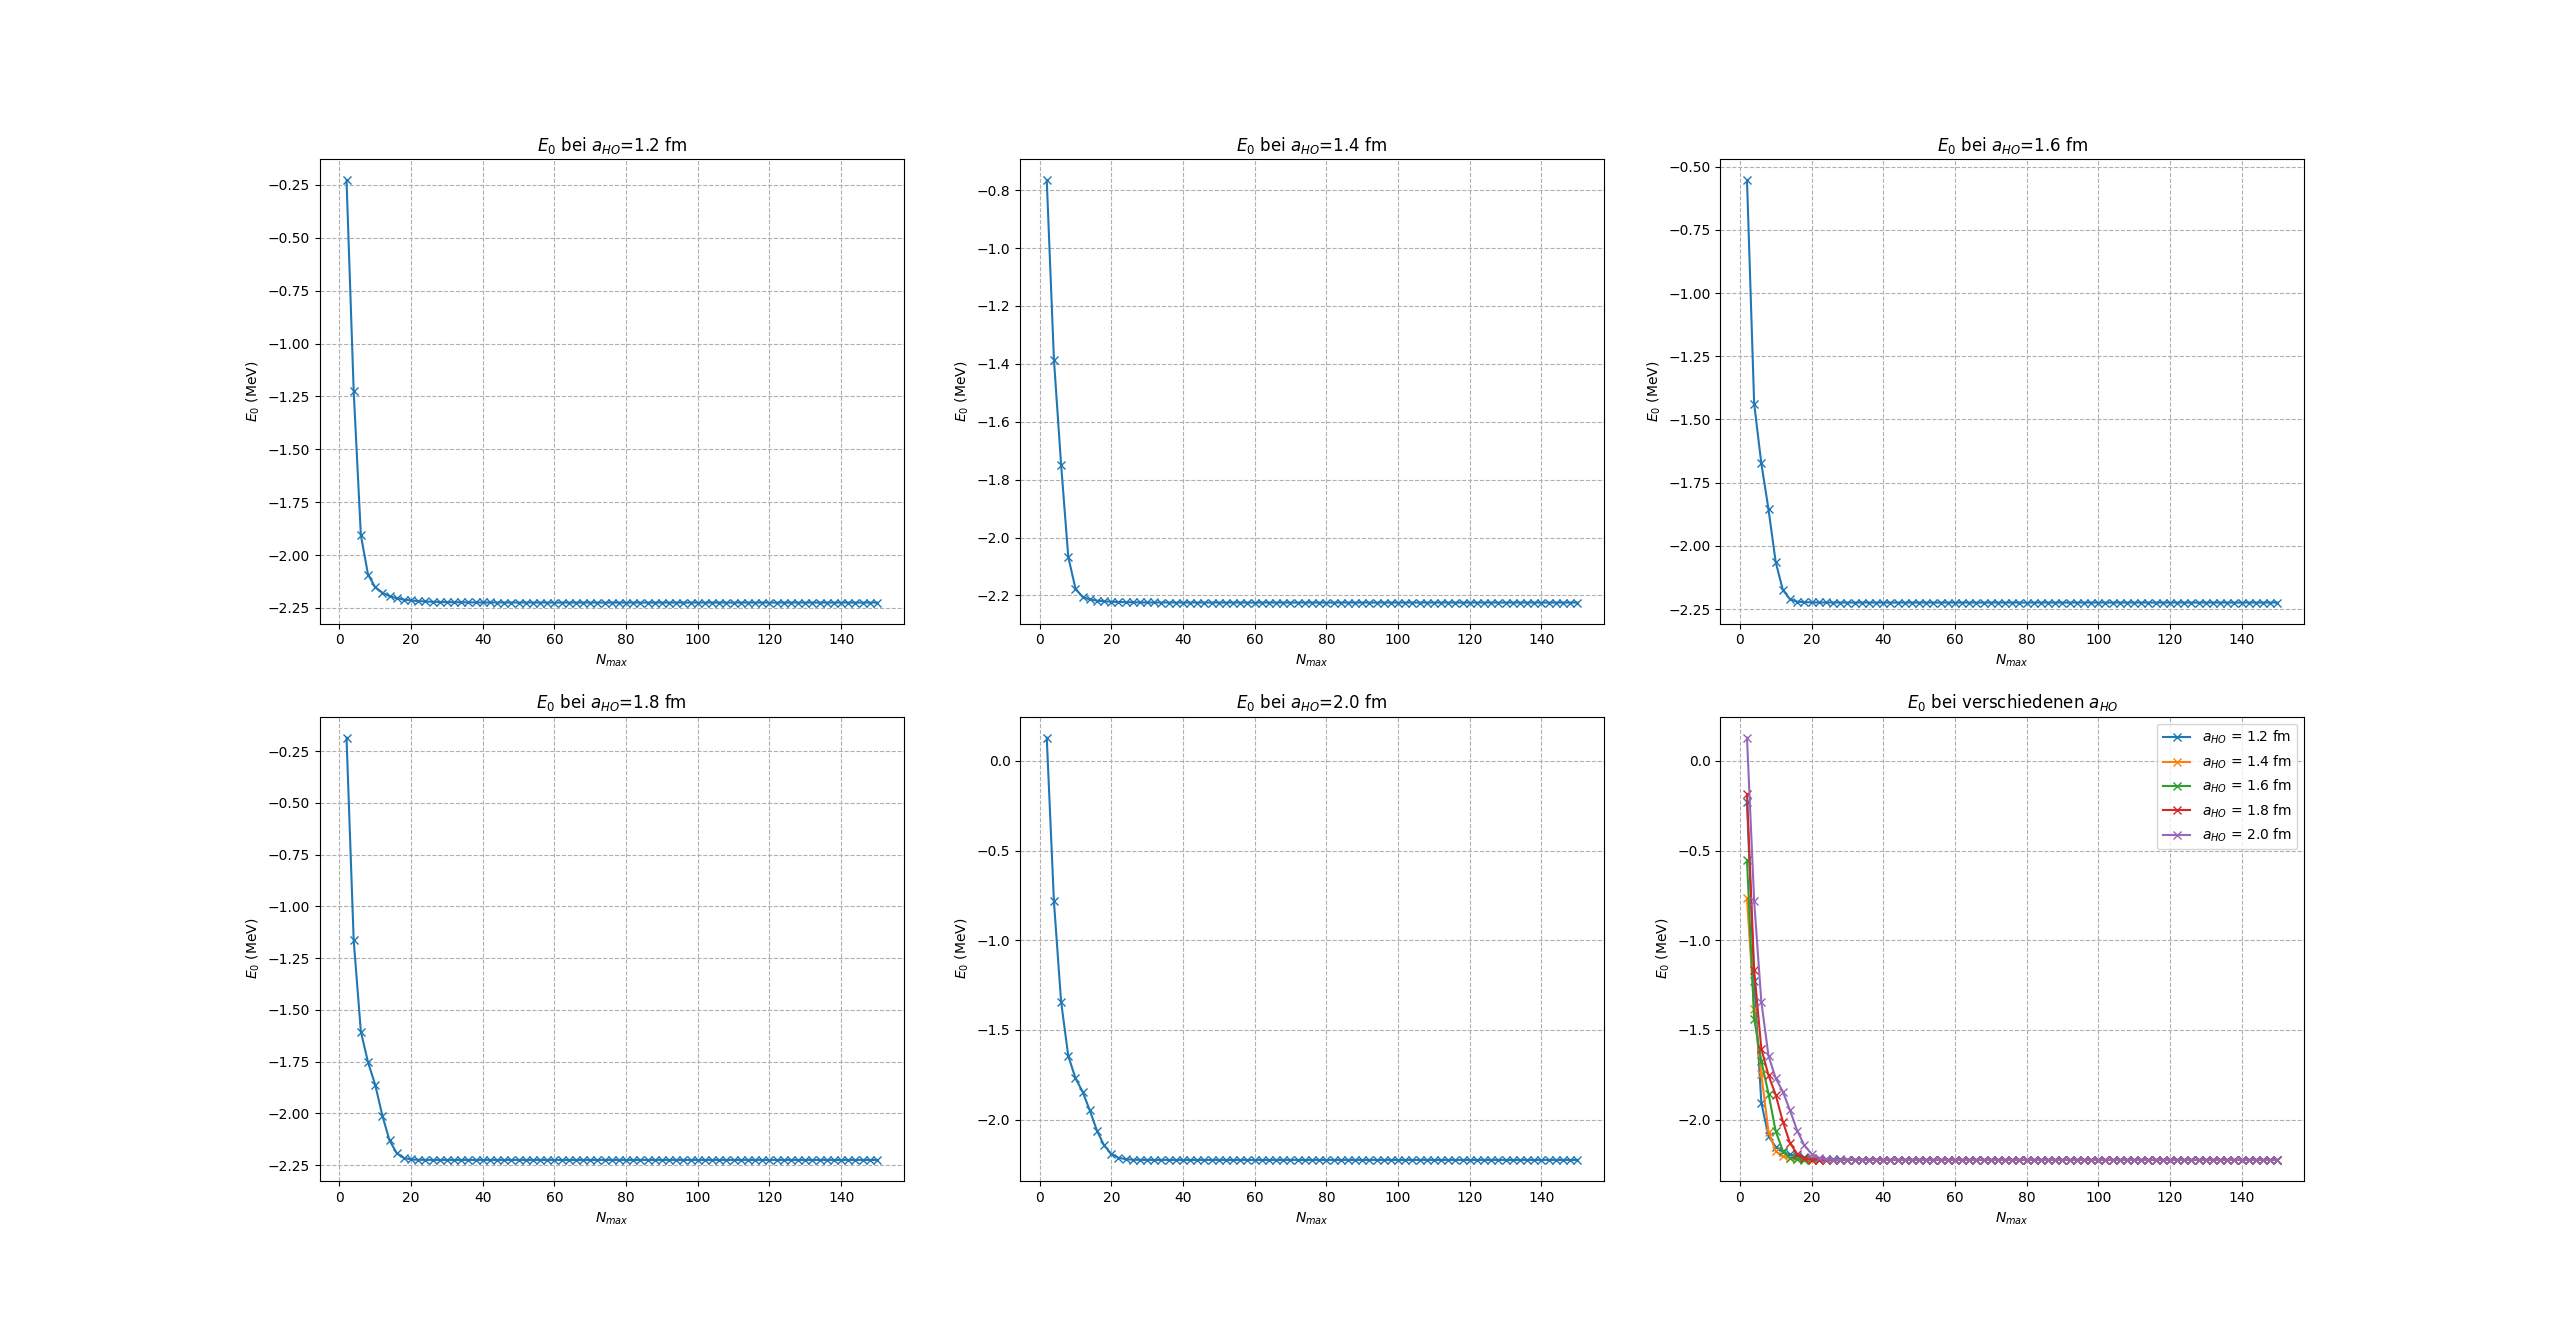
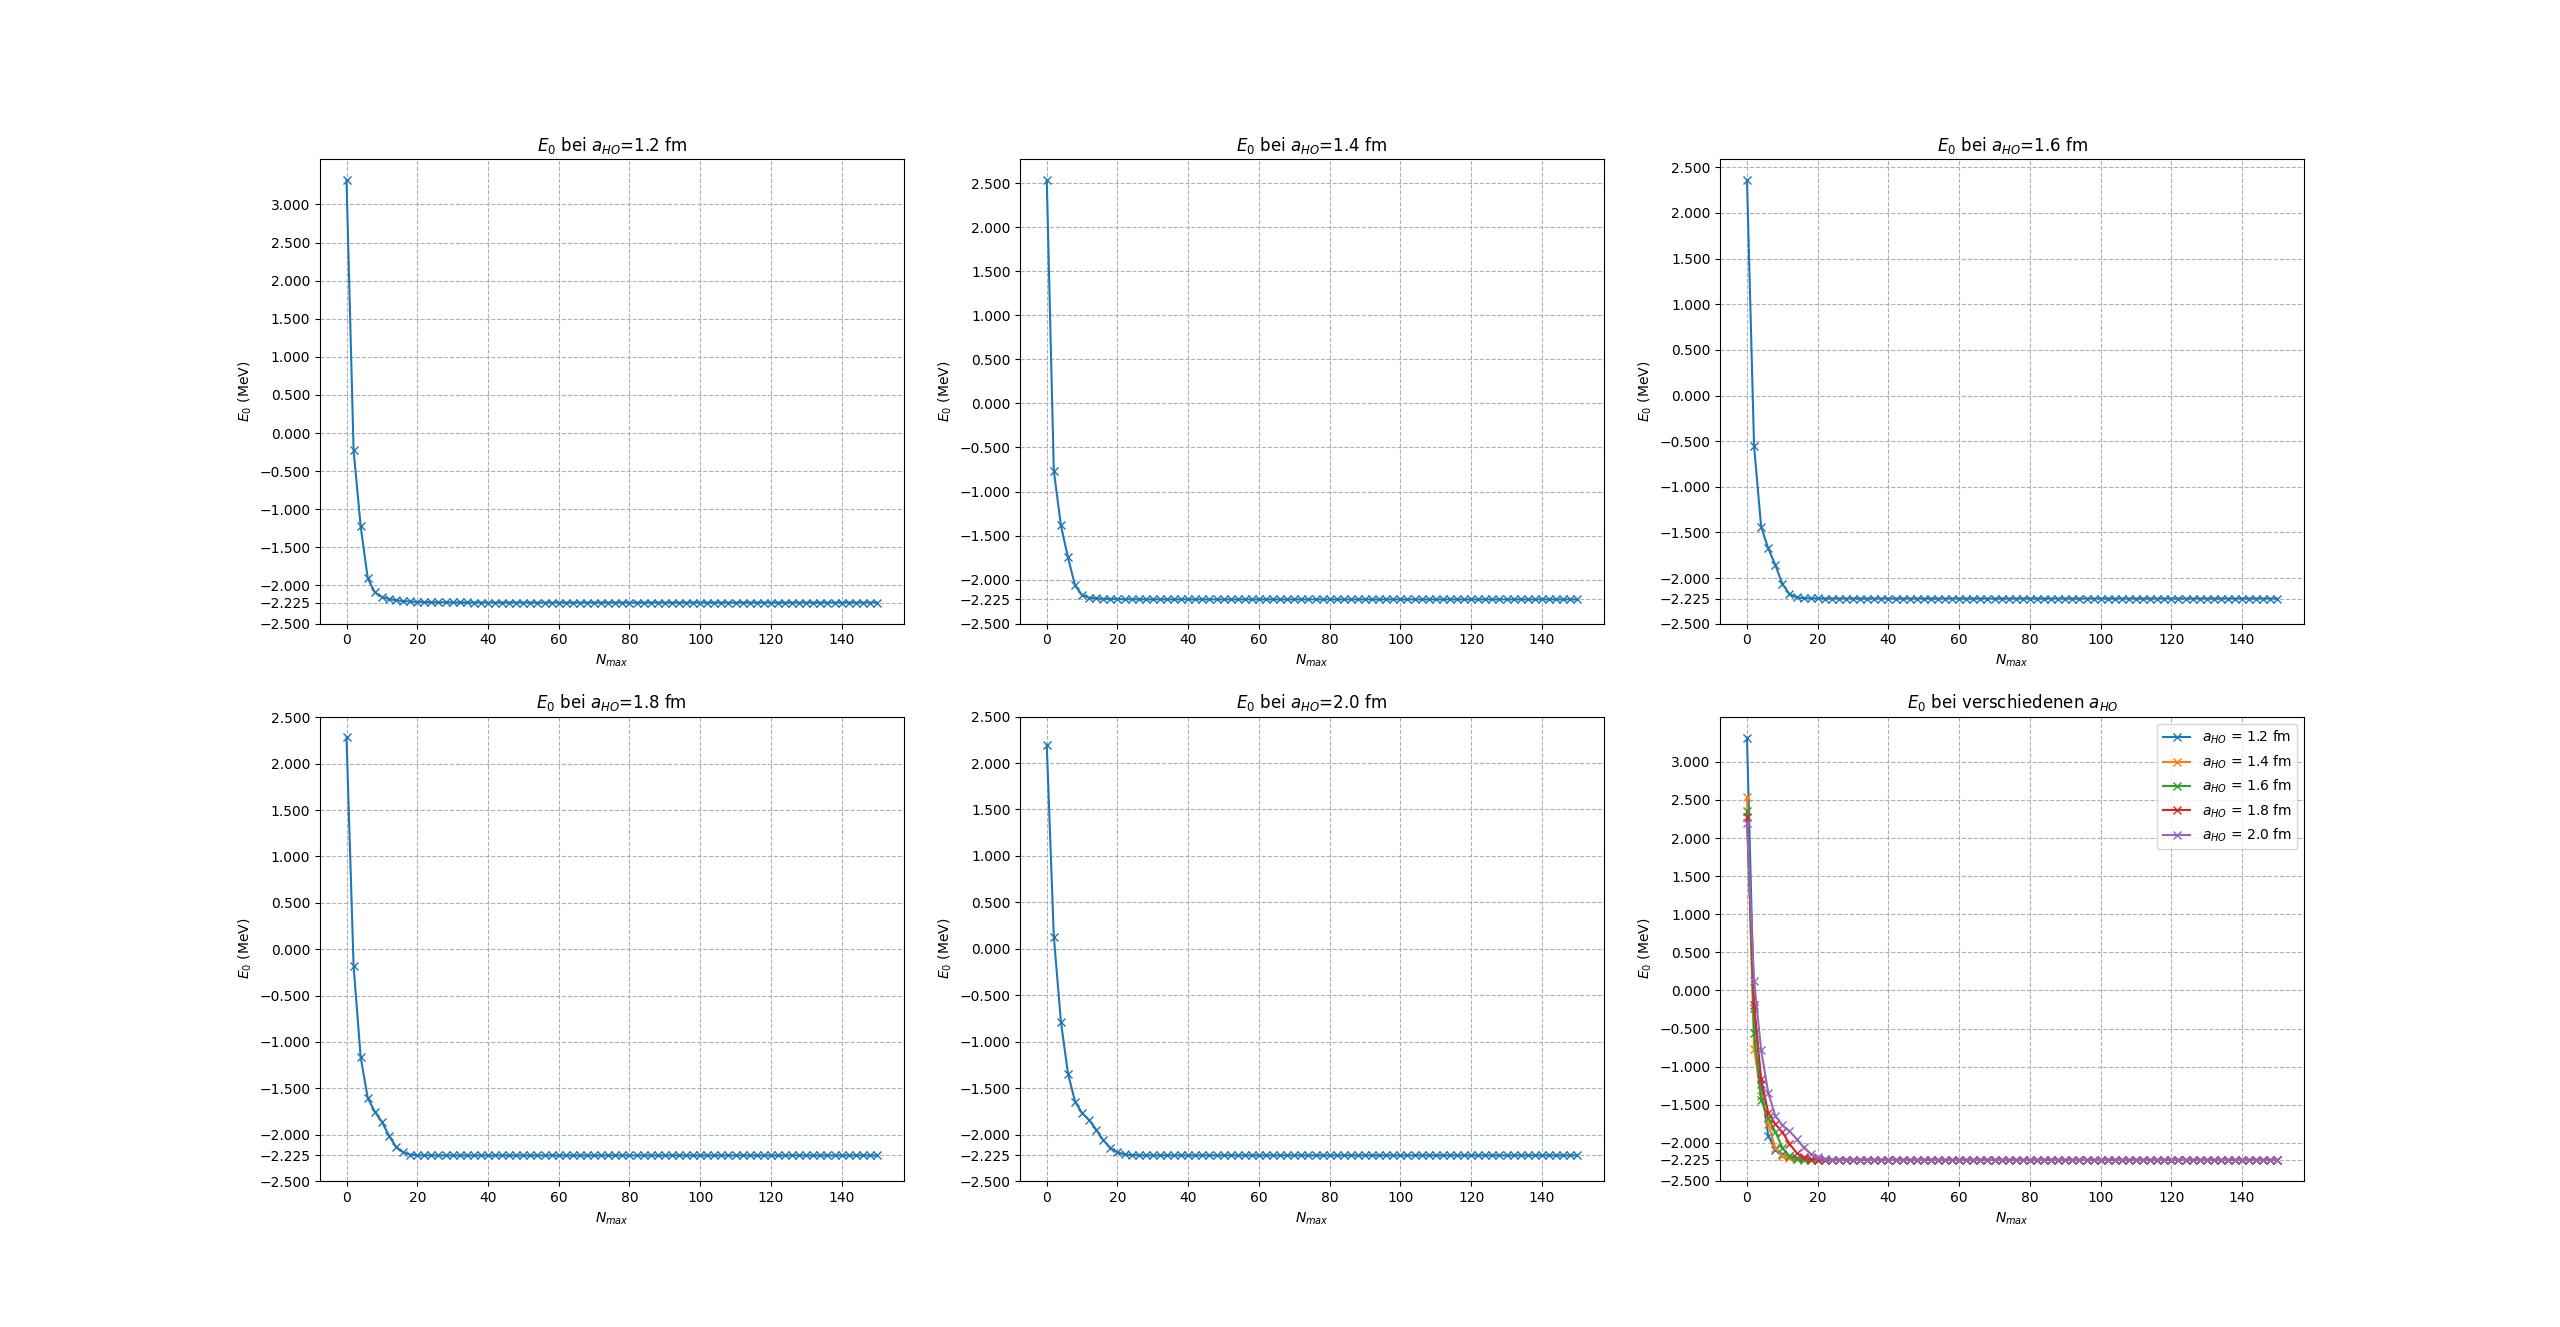
New plots

diff --git a/H_eigval.py b/H_eigval.py
@@ -91,11 +91,11 @@ eigvec, eigval = np.linalg.eig(testmat + mat(trel_Nmax150,150)*1/2**2)
     
 
 Nmax_step75 = np.array([75,150])
-Nmax_step30 = np.arange(30, 180, 30)
-Nmax_step2 = np.arange(2,152,2)
+Nmax_step30 = np.arange(0, 121, 30)
+Nmax_step2 = np.arange(0,152,2)
 
 def plotsE0Nmax():
-    E0_Nmax = np.zeros((2,75))
+    E0_Nmax = np.zeros((2,76))
     for m in range(chi.shape[0]):
         E0_Nmaxm = np.array([])
         for i in Nmax_step2:
@@ -103,6 +103,8 @@ def plotsE0Nmax():
         E0_Nmax = np.append(E0_Nmax, [E0_Nmaxm], axis = 0)
 
     E0_Nmax = np.delete(E0_Nmax,[0,1], axis=0)
+    
+    print(np.mean(E0_Nmax[:, 75]))
 
     # Plot
     plt.figure()
@@ -113,6 +115,7 @@ def plotsE0Nmax():
     plt.title('$E_0$ bei $a_{HO}$=1.2 fm')
     plt.xlabel('$N_{max}$')
     plt.ylabel('$E_0$ (MeV)')
+    plt.yticks([-2.5, E0_Nmax[0,75], -2, -1.5, -1, -0.5, 0, 0.5, 1, 1.5, 2, 2.5, 3])
     plt.grid(linestyle='--')
 
     # aHO = 1.4
@@ -121,6 +124,7 @@ def plotsE0Nmax():
     plt.title('$E_0$ bei $a_{HO}$=1.4 fm')
     plt.xlabel('$N_{max}$')
     plt.ylabel('$E_0$ (MeV)')
+    plt.yticks([-2.5, E0_Nmax[1,75], -2, -1.5, -1, -0.5, 0, 0.5, 1, 1.5, 2, 2.5])
     plt.grid(linestyle='--')
 
     # aHO = 1.6
@@ -129,6 +133,7 @@ def plotsE0Nmax():
     plt.title('$E_0$ bei $a_{HO}$=1.6 fm')
     plt.xlabel('$N_{max}$')
     plt.ylabel('$E_0$ (MeV)')
+    plt.yticks([-2.5, E0_Nmax[2,75], -2, -1.5, -1, -0.5, 0, 0.5, 1, 1.5, 2, 2.5])
     plt.grid(linestyle='--')
 
     # aHO = 1.8
@@ -137,6 +142,7 @@ def plotsE0Nmax():
     plt.title('$E_0$ bei $a_{HO}$=1.8 fm')
     plt.xlabel('$N_{max}$')
     plt.ylabel('$E_0$ (MeV)')
+    plt.yticks([-2.5, E0_Nmax[3,75], -2, -1.5, -1, -0.5, 0, 0.5, 1, 1.5, 2, 2.5])
     plt.grid(linestyle='--')
 
     # aHO = 2.0
@@ -145,6 +151,7 @@ def plotsE0Nmax():
     plt.title('$E_0$ bei $a_{HO}$=2.0 fm')
     plt.xlabel('$N_{max}$')
     plt.ylabel('$E_0$ (MeV)')
+    plt.yticks([-2.5, E0_Nmax[4,75], -2, -1.5, -1, -0.5, 0, 0.5, 1, 1.5, 2, 2.5])
     plt.grid(linestyle='--')
     
     # alle zusammen
@@ -160,6 +167,7 @@ def plotsE0Nmax():
     plt.legend(legend)
     plt.xlabel('$N_{max}$')
     plt.ylabel('$E_0$ (MeV)')
+    plt.yticks([-2.5, np.mean(E0_Nmax[:, 75]), -2, -1.5, -1, -0.5, 0, 0.5, 1, 1.5, 2, 2.5, 3])
     plt.grid(linestyle='--')
 
  
@@ -175,43 +183,43 @@ def plotsE0aHO():
         # Plot
     plt.figure()
 
-    # aHO=1.2
+    # Nmax = 0
     plt.subplot(231)
     plt.plot(aHO,E0_aHO[0], 'x-')
-    plt.title('$E_0$ bei $N_{max}$=30')
-    plt.xlabel('$a_{HO}$')
+    plt.title('$E_0$ bei $N_{max}$=0')
+    plt.xlabel('$a_{HO}$ (fm)')
     plt.ylabel('$E_0$ (MeV)')
     plt.grid(linestyle='--')
 
-    # aHO = 1.4
+    # Nmax = 30
     plt.subplot(232)
     plt.plot(aHO,E0_aHO[1], 'x-')
-    plt.title('$E_0$ bei $N_{max}$=60')
-    plt.xlabel('$a_{HO}$')
+    plt.title('$E_0$ bei $N_{max}$=30')
+    plt.xlabel('$a_{HO}$ (fm)')
     plt.ylabel('$E_0$ (MeV)')
     plt.grid(linestyle='--')
 
-    # aHO = 1.6
+    # Nmax = 60
     plt.subplot(233)
     plt.plot(aHO,E0_aHO[2], 'x-')
-    plt.title('$E_0$ bei $N_{max}$=90')
-    plt.xlabel('$a_{HO}$')
+    plt.title('$E_0$ bei $N_{max}$=60')
+    plt.xlabel('$a_{HO}$ (fm)')
     plt.ylabel('$E_0$ (MeV)')
     plt.grid(linestyle='--')
 
-    # aHO = 1.8
+    # Nmax = 90
     plt.subplot(234)
     plt.plot(aHO,E0_aHO[3], 'x-')
-    plt.title('$E_0$ bei $N_{max}$=120')
-    plt.xlabel('$a_{HO}$')
+    plt.title('$E_0$ bei $N_{max}$=90')
+    plt.xlabel('$a_{HO}$ (fm)')
     plt.ylabel('$E_0$ (MeV)')
     plt.grid(linestyle='--')
 
-    # aHO = 2.0
+    # Nmax = 120
     plt.subplot(235)
     plt.plot(aHO,E0_aHO[4], 'x-')
-    plt.title('$E_0$ bei $N_{max}$=150')
-    plt.xlabel('$a_{HO}$')
+    plt.title('$E_0$ bei $N_{max}$=120')
+    plt.xlabel('$a_{HO}$ (fm)')
     plt.ylabel('$E_0$ (MeV)')
     plt.grid(linestyle='--')
     
@@ -226,7 +234,7 @@ def plotsE0aHO():
 
     plt.title('$E_0$ bei verschiedenen $N_{max}$')
     plt.legend(legend)
-    plt.xlabel('$a_{HO}$')
+    plt.xlabel('$a_{HO}$ (fm)')
     plt.ylabel('$E_0$ (MeV)')
     plt.grid(linestyle='--')
 

diff --git a/test.py b/test.py
@@ -1,4 +1,6 @@
 import numpy as np
 
-print(np.arange(0, 151, 2))
+a = np.arange(-2, 0.1, 0.2)
 
+
+print(np.round(a,1))
